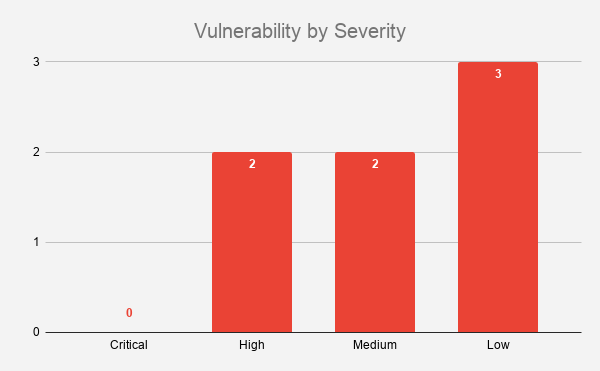
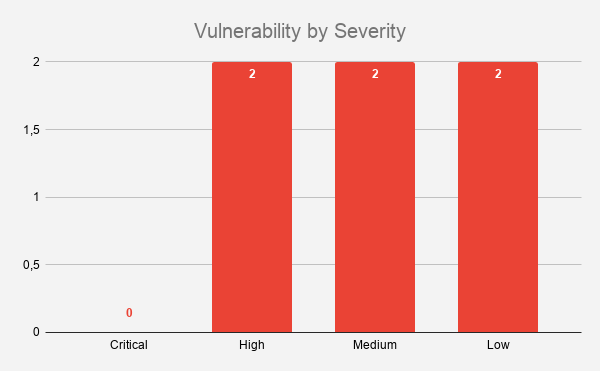
Changes

diff --git a/Pwnos2_Pentest_Report.md b/Pwnos2_Pentest_Report.md
@@ -5,7 +5,7 @@
 
 The application penetration testing report contains efforts that were conducted in order to find vulnerabilities, which a threat actor can use to gain control over the web application. For the scope of this penetration test, the web application was deployed in the Virualized Enviorement with no additional information about the system.
 
-IP address: **192.168.23.131**
+IP address: **10.10.10.100**
 
 The assumption with severity calculation was made that the system is intended to go public soon.
 
@@ -72,90 +72,84 @@ The testing methodology used was based on OWASP Applcation Security Verification
 To idetify the open ports and running services the nmap scan was run with NSE scripts.
 
 ```
-root@kali:~# nmap -sS -sV -T4 -A 192.168.23.131
-Starting Nmap 7.80 ( https://nmap.org ) at 2019-08-22 10:38 CEST
-Nmap scan report for 192.168.23.131
-Host is up (0.00062s latency).
-Not shown: 566 closed ports, 430 filtered ports
-PORT    STATE SERVICE     VERSION
-22/tcp  open  ssh         OpenSSH 4.7p1 Debian 8ubuntu1.2 (protocol 2.0)
-| ssh-hostkey:
-|   1024 9b:ad:4f:f2:1e:c5:f2:39:14:b9:d3:a0:0b:e8:41:71 (DSA)
-|_  2048 85:40:c6:d5:41:26:05:34:ad:f8:6e:f2:a7:6b:4f:0e (RSA)
-80/tcp  open  http        Apache httpd 2.2.8 ((Ubuntu) PHP/5.2.4-2ubuntu5.6 with Suhosin-Patch)
-|_http-server-header: Apache/2.2.8 (Ubuntu) PHP/5.2.4-2ubuntu5.6 with Suhosin-Patch
-|_http-title: Site doesn't have a title (text/html).
-139/tcp open  netbios-ssn Samba smbd 3.X - 4.X (workgroup: WORKGROUP)
-445/tcp open  netbios-ssn Samba smbd 3.0.28a (workgroup: WORKGROUP)
-MAC Address: 00:0C:29:DA:92:E7 (VMware)
+root@kali:~# nmap -sS -sV -T4 -A 10.10.10.100
+Starting Nmap 7.70 ( https://nmap.org ) at 2019-08-23 05:42 EDT
+mass_dns: warning: Unable to determine any DNS servers. Reverse DNS is disabled. Try using --system-dns or specify valid servers with --dns-servers
+Nmap scan report for 10.10.10.100
+Host is up (0.00066s latency).
+Not shown: 998 closed ports
+PORT   STATE SERVICE VERSION
+22/tcp open  ssh     OpenSSH 5.8p1 Debian 1ubuntu3 (Ubuntu Linux; protocol 2.0)
+| ssh-hostkey: 
+|   1024 85:d3:2b:01:09:42:7b:20:4e:30:03:6d:d1:8f:95:ff (DSA)
+|   2048 30:7a:31:9a:1b:b8:17:e7:15:df:89:92:0e:cd:58:28 (RSA)
+|_  256 10:12:64:4b:7d:ff:6a:87:37:26:38:b1:44:9f:cf:5e (ECDSA)
+80/tcp open  http    Apache httpd 2.2.17 ((Ubuntu))
+| http-cookie-flags: 
+|   /: 
+|     PHPSESSID: 
+|_      httponly flag not set
+|_http-server-header: Apache/2.2.17 (Ubuntu)
+|_http-title: Welcome to this Site!
+MAC Address: 08:00:27:3D:16:A2 (Oracle VirtualBox virtual NIC)
 Device type: general purpose
 Running: Linux 2.6.X
 OS CPE: cpe:/o:linux:linux_kernel:2.6
-OS details: Linux 2.6.9 - 2.6.33
+OS details: Linux 2.6.32 - 2.6.39
 Network Distance: 1 hop
 Service Info: OS: Linux; CPE: cpe:/o:linux:linux_kernel
-Host script results:
-|_clock-skew: mean: 3h59m59s, deviation: 2h49m42s, median: 1h59m59s
-|_nbstat: NetBIOS name: KIOPTRIX4, NetBIOS user: <unknown>, NetBIOS MAC: <unknown> (unknown)
-| smb-os-discovery:
-|   OS: Unix (Samba 3.0.28a)
-|   Computer name: Kioptrix4
-|   NetBIOS computer name:
-|   Domain name: localdomain
-|   FQDN: Kioptrix4.localdomain
-|_  System time: 2019-08-22T06:38:46-04:00
-| smb-security-mode:
-|   account_used: guest
-|   authentication_level: user
-|   challenge_response: supported
-|_  message_signing: disabled (dangerous, but default)
-|_smb2-time: Protocol negotiation failed (SMB2)
 
 TRACEROUTE
 HOP RTT     ADDRESS
-1   0.62 ms 192.168.23.131
+1   0.66 ms 10.10.10.100
 
 OS and Service detection performed. Please report any incorrect results at https://nmap.org/submit/ .
-Nmap done: 1 IP address (1 host up) scanned in 20.55 seconds
+Nmap done: 1 IP address (1 host up) scanned in 8.44 seconds
 ```
 
-There are 4 tcp ports open on the machine. On port 22 tcp there is ssh service running. Port 80 tcp, exposed and outdated apache server running. On ports 139 and 445 tcp, there is Samba SMB service running. Also, nmap has identified the operating system version as Linux kernel 2.6. The next target would be the http service on port 80 tcp.
+There are 2 tcp ports open on the machine. On port 22 tcp there is ssh service running. Port 80 tcp, exposed and outdated apache server running. Also, nmap has identified the operating system version as Linux kernel 2.6. The next target would be the http service on port 80 tcp.
 
 
 ```
-root@kali:~# nikto -host http://192.168.23.131
+root@kali:~# nikto -h http://10.10.10.100
 - Nikto v2.1.6
 ---------------------------------------------------------------------------
-+ Target IP:          192.168.23.131
-+ Target Hostname:    192.168.23.131
++ Target IP:          10.10.10.100
++ Target Hostname:    10.10.10.100
 + Target Port:        80
-+ Start Time:         2019-08-22 10:10:36 (GMT2)
++ Start Time:         2019-08-23 05:44:04 (GMT-4)
 ---------------------------------------------------------------------------
-+ Server: Apache/2.2.8 (Ubuntu) PHP/5.2.4-2ubuntu5.6 with Suhosin-Patch
-+ Retrieved x-powered-by header: PHP/5.2.4-2ubuntu5.6
++ Server: Apache/2.2.17 (Ubuntu)
++ Retrieved x-powered-by header: PHP/5.3.5-1ubuntu7
 + The anti-clickjacking X-Frame-Options header is not present.
 + The X-XSS-Protection header is not defined. This header can hint to the user agent to protect against some forms of XSS
 + The X-Content-Type-Options header is not set. This could allow the user agent to render the content of the site in a different fashion to the MIME type
++ Cookie PHPSESSID created without the httponly flag
++ Apache/2.2.17 appears to be outdated (current is at least Apache/2.4.12). Apache 2.0.65 (final release) and 2.2.29 are also current.
 + Uncommon header 'tcn' found, with contents: list
 + Apache mod_negotiation is enabled with MultiViews, which allows attackers to easily brute force file names. See http://www.wisec.it/sectou.php?id=4698ebdc59d15. The following alternatives for 'index' were found: index.php
-+ Apache/2.2.8 appears to be outdated (current is at least Apache/2.4.37). Apache 2.2.34 is the EOL for the 2.x branch.
-+ PHP/5.2.4-2ubuntu5.6 appears to be outdated (current is at least 7.2.12). PHP 5.6.33, 7.0.27, 7.1.13, 7.2.1 may also current release for each branch.
 + Web Server returns a valid response with junk HTTP methods, this may cause false positives.
-+ OSVDB-877: HTTP TRACE method is active, suggesting the host is vulnerable to XST
 + OSVDB-12184: /?=PHPB8B5F2A0-3C92-11d3-A3A9-4C7B08C10000: PHP reveals potentially sensitive information via certain HTTP requests that contain specific QUERY strings.
 + OSVDB-12184: /?=PHPE9568F36-D428-11d2-A769-00AA001ACF42: PHP reveals potentially sensitive information via certain HTTP requests that contain specific QUERY strings.
 + OSVDB-12184: /?=PHPE9568F34-D428-11d2-A769-00AA001ACF42: PHP reveals potentially sensitive information via certain HTTP requests that contain specific QUERY strings.
 + OSVDB-12184: /?=PHPE9568F35-D428-11d2-A769-00AA001ACF42: PHP reveals potentially sensitive information via certain HTTP requests that contain specific QUERY strings.
++ OSVDB-3268: /includes/: Directory indexing found.
++ OSVDB-3092: /includes/: This might be interesting...
++ /info/: Output from the phpinfo() function was found.
++ OSVDB-3092: /info/: This might be interesting...
++ OSVDB-3092: /login/: This might be interesting...
++ OSVDB-3092: /register/: This might be interesting...
++ /info.php: Output from the phpinfo() function was found.
++ OSVDB-3233: /info.php: PHP is installed, and a test script which runs phpinfo() was found. This gives a lot of system information.
 + OSVDB-3268: /icons/: Directory indexing found.
-+ OSVDB-3268: /images/: Directory indexing found.
-+ Server may leak inodes via ETags, header found with file /icons/README, inode: 98933, size: 5108, mtime: Tue Aug 28 12:48:10 2007
++ Server leaks inodes via ETags, header found with file /icons/README, inode: 1311031, size: 5108, mtime: Tue Aug 28 06:48:10 2007
 + OSVDB-3233: /icons/README: Apache default file found.
-+ Cookie PHPSESSID created without the httponly flag
-+ 8724 requests: 0 error(s) and 19 item(s) reported on remote host
-+ End Time:           2019-08-22 10:11:09 (GMT2) (33 seconds)
++ /info.php?file=http://cirt.net/rfiinc.txt?: Output from the phpinfo() function was found.
++ OSVDB-5292: /info.php?file=http://cirt.net/rfiinc.txt?: RFI from RSnake's list (http://ha.ckers.org/weird/rfi-locations.dat) or from http://osvdb.org/
++ /login.php: Admin login page/section found.
++ 8310 requests: 0 error(s) and 27 item(s) reported on remote host
++ End Time:           2019-08-23 05:44:15 (GMT-4) (11 seconds)
 ---------------------------------------------------------------------------
-+ 1 host(s) tested
-
 ```
 
 At this moment the nikto scan has idetify the following vulnerabilities: communication is not encrypted (number 5), HTTP Trace method is active (number 6), Anti-clickjacking header is not present (number 7), Cookie PHPSESSID created without the httponly flag (number 8).
@@ -164,36 +158,110 @@ Also please note that nikto discover **outdated** version of PHP and Apache.
 
 To enumerate directories/files in the web application dirb will be used.
 ```
-root@kali:~# dirb http://192.168.23.131
+root@kali:~# dirb http://10.10.10.100
+
 -----------------
-DIRB v2.22   
+DIRB v2.22    
 By The Dark Raver
 -----------------
-START_TIME: Thu Aug 22 11:11:15 2019
-URL_BASE: http://192.168.23.131/
-WORDLIST_FILES: /usr/share/dirb/wordlists/common.txt
------------------
-GENERATED WORDS: 4612                                                         
----- Scanning URL: http://192.168.23.131/ ----
-+ http://192.168.23.131/cgi-bin/ (CODE:403|SIZE:329)                          
-==> DIRECTORY: http://192.168.23.131/images/                                  
-+ http://192.168.23.131/index (CODE:200|SIZE:1255)                            
-+ http://192.168.23.131/index.php (CODE:200|SIZE:1255)                        
-==> DIRECTORY: http://192.168.23.131/john/                                    
-+ http://192.168.23.131/logout (CODE:302|SIZE:0)                              
-+ http://192.168.23.131/member (CODE:302|SIZE:220)                            
-+ http://192.168.23.131/server-status (CODE:403|SIZE:334)                     
 
----- Entering directory: http://192.168.23.131/images/ ----
-(!) WARNING: Directory IS LISTABLE. No need to scan it.                       
-    (Use mode '-w' if you want to scan it anyway)
- 
----- Entering directory: http://192.168.23.131/john/ ----
-(!) WARNING: Directory IS LISTABLE. No need to scan it.                       
-    (Use mode '-w' if you want to scan it anyway)
+START_TIME: Fri Aug 23 05:45:10 2019
+URL_BASE: http://10.10.10.100/
+WORDLIST_FILES: /usr/share/dirb/wordlists/common.txt
+
 -----------------
-END_TIME: Thu Aug 22 11:11:19 2019
-DOWNLOADED: 4612 - FOUND: 61
+
+GENERATED WORDS: 4612                                                          
+
+---- Scanning URL: http://10.10.10.100/ ----
++ http://10.10.10.100/activate (CODE:302|SIZE:0)                               
+==> DIRECTORY: http://10.10.10.100/blog/                                       
++ http://10.10.10.100/cgi-bin/ (CODE:403|SIZE:288)                             
+==> DIRECTORY: http://10.10.10.100/includes/                                   
++ http://10.10.10.100/index (CODE:200|SIZE:854)                                
++ http://10.10.10.100/index.php (CODE:200|SIZE:854)                            
++ http://10.10.10.100/info (CODE:200|SIZE:50171)                               
++ http://10.10.10.100/info.php (CODE:200|SIZE:50040)                           
++ http://10.10.10.100/login (CODE:200|SIZE:1174)                               
++ http://10.10.10.100/register (CODE:200|SIZE:1562)                            
++ http://10.10.10.100/server-status (CODE:403|SIZE:293)                        
+                                                                               
+---- Entering directory: http://10.10.10.100/blog/ ----
++ http://10.10.10.100/blog/add (CODE:302|SIZE:0)                               
++ http://10.10.10.100/blog/atom (CODE:200|SIZE:1062)                           
++ http://10.10.10.100/blog/categories (CODE:302|SIZE:0)                        
++ http://10.10.10.100/blog/comments (CODE:302|SIZE:0)                          
+==> DIRECTORY: http://10.10.10.100/blog/config/                                
++ http://10.10.10.100/blog/contact (CODE:200|SIZE:6001)                        
+==> DIRECTORY: http://10.10.10.100/blog/content/                               
++ http://10.10.10.100/blog/delete (CODE:302|SIZE:0)                            
+==> DIRECTORY: http://10.10.10.100/blog/docs/                                  
+==> DIRECTORY: http://10.10.10.100/blog/flash/                                 
+==> DIRECTORY: http://10.10.10.100/blog/images/                                
++ http://10.10.10.100/blog/index (CODE:200|SIZE:8094)                          
++ http://10.10.10.100/blog/index.php (CODE:200|SIZE:8094)                      
++ http://10.10.10.100/blog/info (CODE:302|SIZE:0)                              
++ http://10.10.10.100/blog/info.php (CODE:302|SIZE:0)                          
+==> DIRECTORY: http://10.10.10.100/blog/interface/                             
+==> DIRECTORY: http://10.10.10.100/blog/languages/                             
++ http://10.10.10.100/blog/login (CODE:200|SIZE:5750)                          
++ http://10.10.10.100/blog/logout (CODE:302|SIZE:0)                            
++ http://10.10.10.100/blog/options (CODE:302|SIZE:0)                           
++ http://10.10.10.100/blog/rdf (CODE:200|SIZE:1411)                            
++ http://10.10.10.100/blog/rss (CODE:200|SIZE:1237)                            
+==> DIRECTORY: http://10.10.10.100/blog/scripts/                               
++ http://10.10.10.100/blog/search (CODE:200|SIZE:5034)                         
++ http://10.10.10.100/blog/setup (CODE:302|SIZE:0)                             
++ http://10.10.10.100/blog/static (CODE:302|SIZE:0)                            
++ http://10.10.10.100/blog/stats (CODE:200|SIZE:5392)                          
+==> DIRECTORY: http://10.10.10.100/blog/themes/                                
++ http://10.10.10.100/blog/trackback (CODE:302|SIZE:0)                         
++ http://10.10.10.100/blog/upgrade (CODE:302|SIZE:0)                           
+                                                                               
+---- Entering directory: http://10.10.10.100/includes/ ----
+(!) WARNING: Directory IS LISTABLE. No need to scan it.                        
+    (Use mode '-w' if you want to scan it anyway)
+                                                                               
+---- Entering directory: http://10.10.10.100/blog/config/ ----
+(!) WARNING: Directory IS LISTABLE. No need to scan it.                        
+    (Use mode '-w' if you want to scan it anyway)
+                                                                               
+---- Entering directory: http://10.10.10.100/blog/content/ ----
+(!) WARNING: Directory IS LISTABLE. No need to scan it.                        
+    (Use mode '-w' if you want to scan it anyway)
+                                                                               
+---- Entering directory: http://10.10.10.100/blog/docs/ ----
+(!) WARNING: Directory IS LISTABLE. No need to scan it.                        
+    (Use mode '-w' if you want to scan it anyway)
+                                                                               
+---- Entering directory: http://10.10.10.100/blog/flash/ ----
+(!) WARNING: Directory IS LISTABLE. No need to scan it.                        
+    (Use mode '-w' if you want to scan it anyway)
+                                                                               
+---- Entering directory: http://10.10.10.100/blog/images/ ----
+(!) WARNING: Directory IS LISTABLE. No need to scan it.                        
+    (Use mode '-w' if you want to scan it anyway)
+                                                                               
+---- Entering directory: http://10.10.10.100/blog/interface/ ----
+(!) WARNING: Directory IS LISTABLE. No need to scan it.                        
+    (Use mode '-w' if you want to scan it anyway)
+                                                                               
+---- Entering directory: http://10.10.10.100/blog/languages/ ----
+(!) WARNING: Directory IS LISTABLE. No need to scan it.                        
+    (Use mode '-w' if you want to scan it anyway)
+                                                                               
+---- Entering directory: http://10.10.10.100/blog/scripts/ ----
+(!) WARNING: Directory IS LISTABLE. No need to scan it.                        
+    (Use mode '-w' if you want to scan it anyway)
+                                                                               
+---- Entering directory: http://10.10.10.100/blog/themes/ ----
+(!) WARNING: Directory IS LISTABLE. No need to scan it.                        
+    (Use mode '-w' if you want to scan it anyway)
+                                                                               
+-----------------
+END_TIME: Fri Aug 23 05:45:16 2019
+DOWNLOADED: 9224 - FOUND: 30
+
 ```
 
 The valueable information from the dirb scan is that potentially there is a user **john** register in the web application which corresponds to **number 9** vulnerability.

diff --git a/SQLi2Shell_Pentest_Report.md b/SQLi2Shell_Pentest_Report.md
@@ -28,9 +28,8 @@ For further reading there were CWE-ID provided.
 |2	|Unrestricted File Upload						|**High** 		|CWE-434	|
 |3	|Weak Passwords									|Medium			|CWE-521	|
 |4	|Unencrypted communication						|Medium			|CWE-319	|
-|5	|HTTP TRACE Enabled								|Low			|CWE-749	|
-|6	|Anti-Clickjacking not presents					|Low			|CWE-1021	|
-|7	|Cookie without httponly flag					|Low			|CWE-1004	|
+|5	|Anti-Clickjacking not presents					|Low			|CWE-1021	|
+|6	|Cookie without httponly flag					|Low			|CWE-1004	|
 
 For the detailed description of each vulnerability, please refer to CWE-ID.
 
@@ -51,11 +50,9 @@ For remaining vulnerabilities, there are no vulnerable parameters or body but we
 
 **Number 4** - Unencrypted communication refers to sending sensitive data (username and password) over unencrypted channel. When implementing the encryption in transit, appropiate HTTP headers should be set up to ensure the strong configuration of Http over tls. The details can be found in Recommendation chapter.
 
-**Number 5** - HTTP Trace Enabled refers to HTTP method (Trace) that refelects the input send by the user. The vulnerability allows the attacker to bypass native browser cookie protection (if in place e.g. httponly), to leak the senstive cookie by Cross-site scripting attack.
+**Number 5** - vulnerability allows the attacker to render content of the website in the context of other domain owned by attacker. Unless intended as functionallity, appropiate HTTP Header has to be set up to limit the rendering of the website in different browser context.
 
-**Number 6** - vulnerability allows the attacker to render content of the website in the context of other domain owned by attacker. Unless intended as functionallity, appropiate HTTP Header has to be set up to limit the rendering of the website in different browser context.
-
-**Number 7** - the cookie missing httponly flag which in case of Cross-site scripting attack allow the attacker to easly hijack the cookie and take over user session.
+**Number 6** - the cookie missing httponly flag which in case of Cross-site scripting attack allow the attacker to easly hijack the cookie and take over user session.
 
 
 ## Methodology
@@ -124,7 +121,7 @@ root@kali:~# nikto -host http://192.168.23.132
 + 1 host(s) tested
 ```
 
-At this moment the nikto scan has idetify the following vulnerabilities: communication is not encrypted (number 4), HTTP Trace method is active (number 5), Anti-clickjacking header is not present (number 6).
+At this moment the nikto scan has idetify the following vulnerabilities: communication is not encrypted (number 4), Anti-clickjacking header is not present (number 5).
 
 To enumerate directories/files in the web application dirb will be used.
 ```
@@ -203,7 +200,7 @@ The sqlmap manage to retirve the username and hash of the password using timebas
 
 The credentials can be used to login to applcation. Please note that admin password is very weak and can be easly brute force, if no SQLi was found.
 
-After logging in to the admin acount we see two things. One is the issued cookie does not have Httponly flag (vulnerability number 7). The second is interesting functionallity that is worth testing which is file upload functionallity. When file is upload the following POST request is being sent.
+After logging in to the admin acount we see two things. One is the issued cookie does not have Httponly flag (vulnerability number 6). The second is interesting functionallity that is worth testing which is file upload functionallity. When file is upload the following POST request is being sent.
 
 ![upload](../master/static/sqli_upload.jpg)
 
@@ -265,14 +262,8 @@ Enforce password policy for the users. Do not allow users to create the account 
 
 Implement strong TLS configuration, send senstive data only through encrypted channel. The tester recommends to apply TLS1.2+ (date: 22/08/2019). Also it is recommended to set up HSTS-HTTP header and add the flag secure to the sensitive cookie.
 
-**5. HTTP TRACE Enabled**
 
-Disbale HTTP TRACE method in Apache configuration. There should be following line added to httpd.conf
-```
-TraceEnable Off
-```
-
-**6. Anti-Clickjacking not presents**
+**5. Anti-Clickjacking not presents**
 
 Apply the UI render restriction by adding X-Frame-Options header to each response. There should be following line added to httpd.conf
 
@@ -280,12 +271,12 @@ Apply the UI render restriction by adding X-Frame-Options header to each respons
 Header always append X-Frame-Options SAMEORIGIN
 ```
 
-**7. Cookie without httponly flag**
+**6. Cookie without httponly flag**
 
 Protect the senstive cookie by applying the flag HttpOnly. The flag should be append in the time for cookie creation in PHP code.
 
 
-**8. Additional**
+**7. Additional**
 
 - Implement patch management policy. Regulary apply software updates.
 
